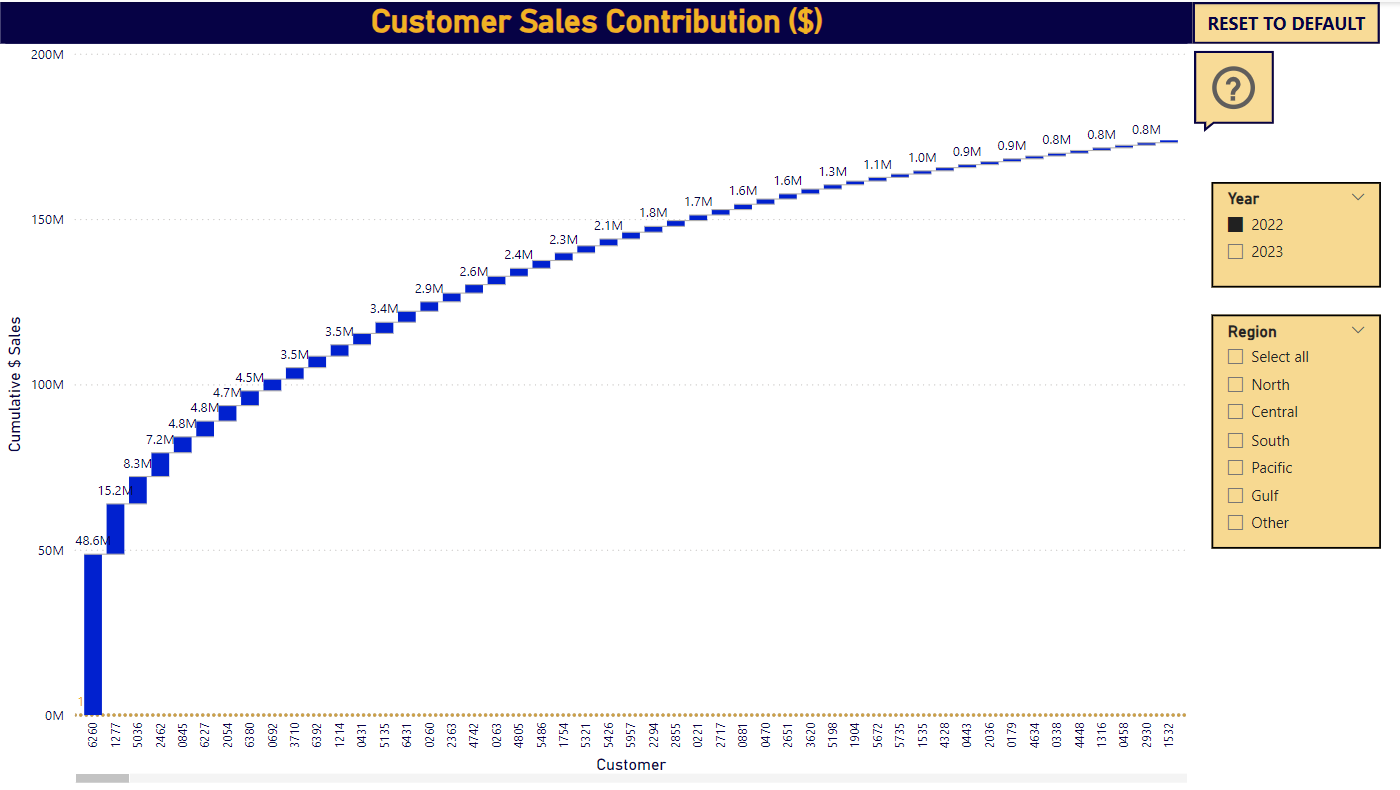
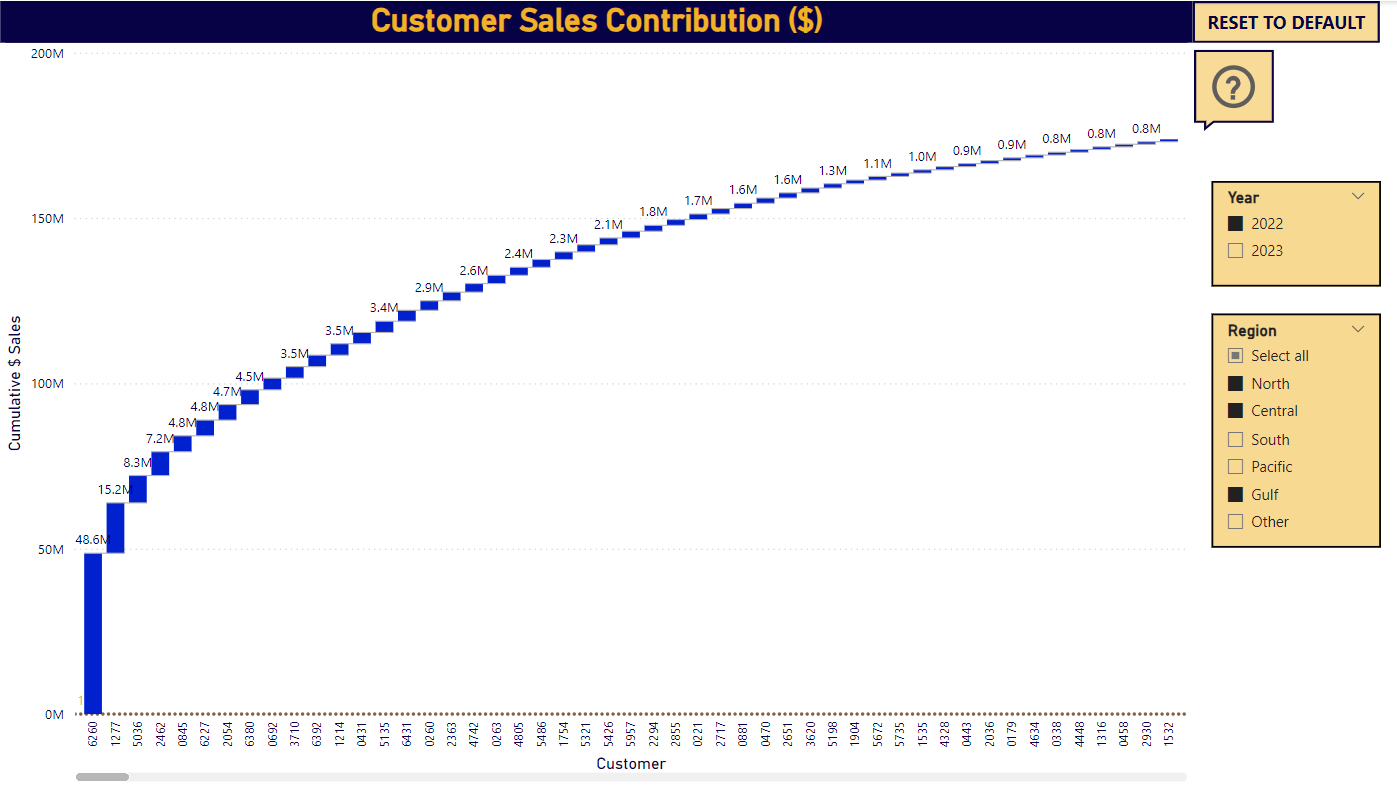
fixed typos in Month Sales Trend, Date Dimension Table, and changed title of Churn Analysis Project

diff --git a/index.html b/index.html
@@ -124,7 +124,7 @@
             </div>
             
             <div class="project">
-                <div class="project-title">Churn Rate Analysis</div>
+                <div class="project-title">Customer Churn Rate Analysis</div>
                 <div class="project-content">
                     <p>Developed interactive dashboards to analyze customer churn for a telecommunications provider. 
                         The focus was on identifying the key factors influencing churn, as well as locations where customers are most likely to leave. 
